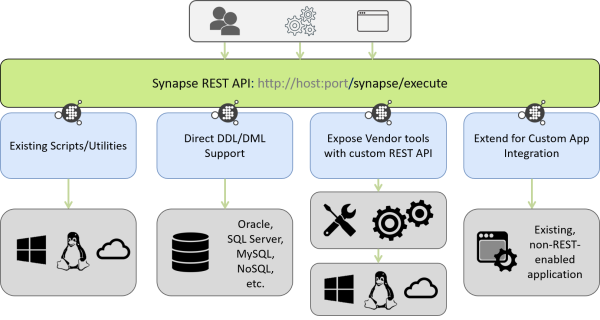
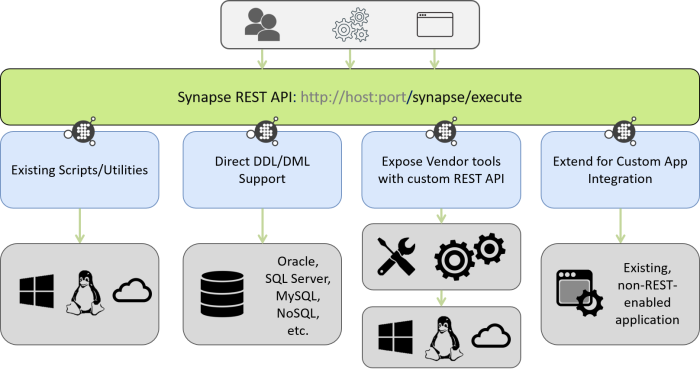
spacing tweaks

diff --git a/blog/what-is-synapse.html b/blog/what-is-synapse.html
@@ -3,7 +3,7 @@
     <p>Synapse is an open-source, lightweight execution engine designed to take data from disparate, federated sources and connect
         it to a process. Synapse is built to run as a local or remote process.</p>
 
-    <img src="/images/syn_concept_mc_io.png" alt="Synapse" title="Synapse" style="max-width:100%; height: auto; margin: 1em 1em; align-content: center;">
+    <img src="/images/syn_concept_mc_io.png" alt="Synapse" title="Synapse" style="max-width:100%; height: auto; margin: 1em 1em; display: block;">
 
     <p></p>
 
@@ -29,7 +29,7 @@
             is extended through new scripts, custom Handlers, and custom Controllers.</li>
         <li>Synapse works on both Windows and *nix.</li>
     </ul>
-    
+
     <h3>Basic Architecture</h3>
 
     <div>
@@ -54,9 +54,10 @@
         <p>Synapse is generally technology-agnostic. In keeping with enabling SMEs to be highly productive, look to use Synapse
             as an abstraction layer over existing solutions, for the purpose of exposing them as REST services, participating
             in a service-oriented architecture (SOA).</p>
-        <div class="framed" align="center">
-            <img src="/images/syn_abstraction_io.png" alt="Synapse Abstraction" title="Synapse Abstraction" style="max-width:100%; height: auto; margin: 1em 1em;">
-        </div>
+        <img src="/images/syn_abstraction_io.png" alt="Synapse Abstraction" title="Synapse Abstraction" style="max-width:100%; height: auto; margin: 1em 1em; display: block;">
+
+        <br>
+
         <h3>Integration and Extensibility Patterns</h3>
         <p>If you want to use Synapse's automation and workflow capability for distributed task execution, but you want to expose
             your REST services under URIs and data formats that align with your business purpose, consider extending Synapse
